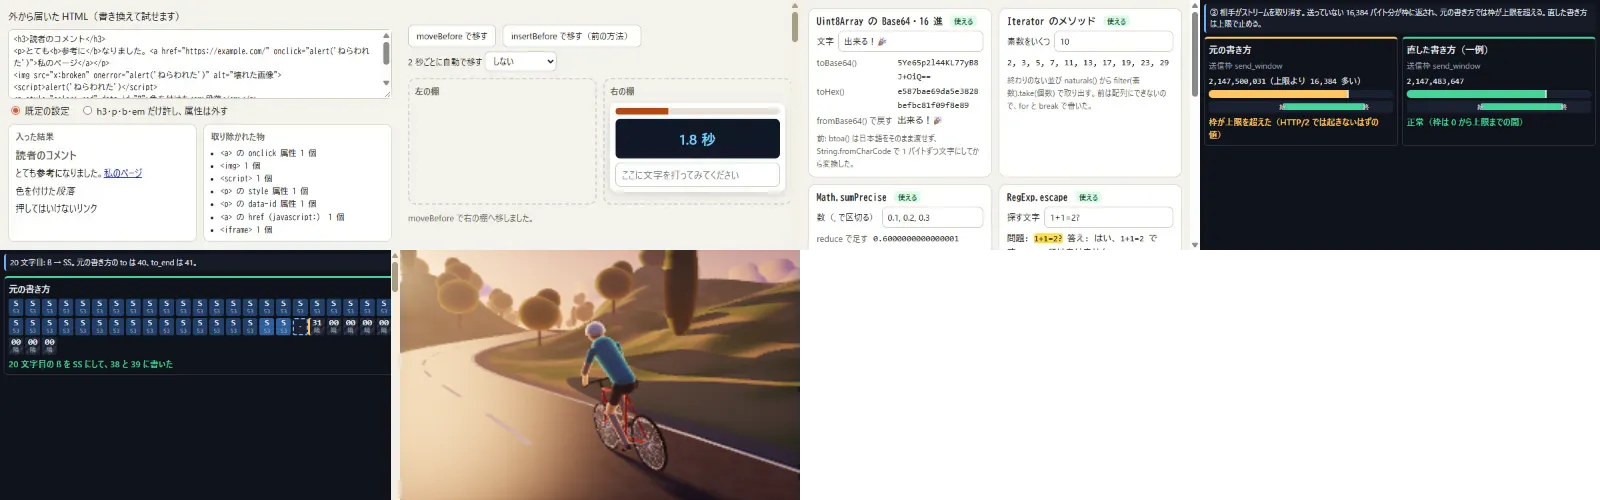
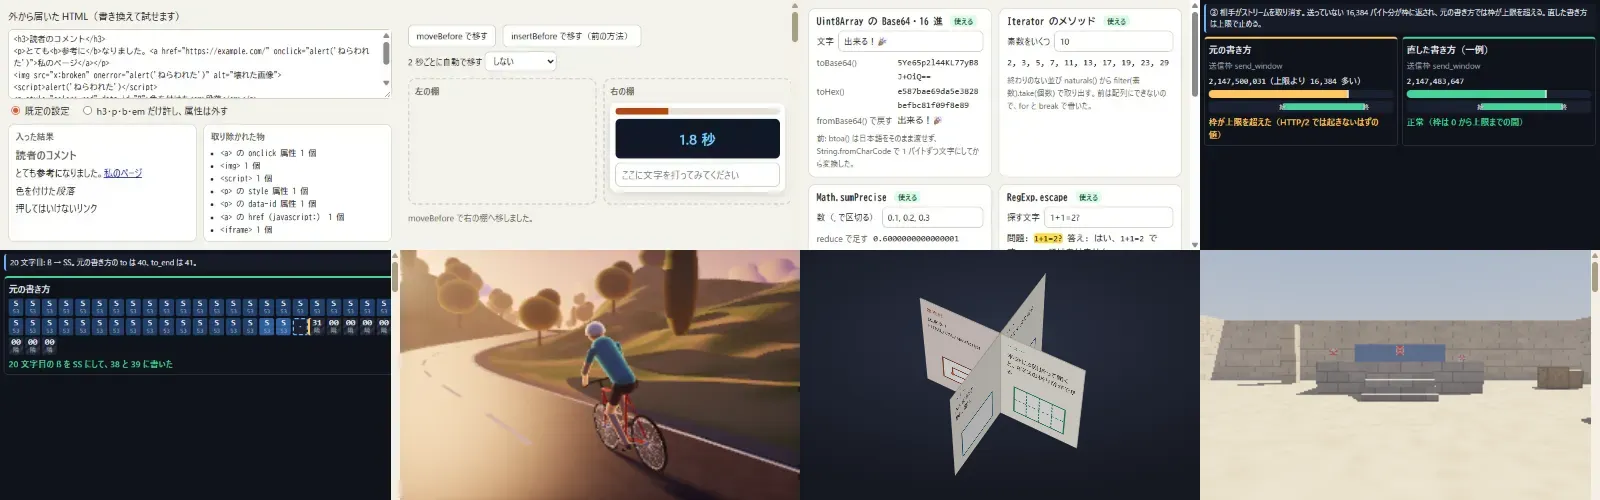
一覧の静止画: 箱だけで作る FPS の骨組みと、今日の話題 1 件（2026-11-20）を撮る

Changed region(s): [[0.5, 0.48, 1.0, 1.0]]

diff --git a/js/thumbs.js b/js/thumbs.js
@@ -1,5 +1,6 @@
 // 一覧のカードの静止画の目録。node tools/thumbs.mjs が作る。手で直さない
-window.DEKIRU_THUMBS = {"v":1,"w":400,"h":250,"cols":4,"rows":2,"sheets":["68d72c","4e08da","19ffa2","dd35ff","dd3a9c","60fbf0","63e81e","b7a4d3","686b21","92cefe","eb8186","f2066e","45a218","2a91ab","37d693","24ab4a","5a54cd","f752e7","d5e527","6c6f03","a925dd","52db0c","cf580e","4ff3cb","e52822","8d4c85","86cb75","aea336","88ed5d","d743dc","151077","a2a63d","026310","3bb873","eda318","f2d7f7","5b432b","315430","5da556","f6d5b0","4c1b0f","a1602a","17a31a","899807","4aa5ef","74e1f4","5c3a3a","18757a","ce7b78","9b8854","d15b89","b18e2c","f68cc0","50dd37","d7bec3","1b14a4","c3c5fd","fbea8e","9b356e","5efb07","b5f169","62dca2","ac9907"],"at":{
+window.DEKIRU_THUMBS = {"v":1,"w":400,"h":250,"cols":4,"rows":2,"sheets":["68d72c","4e08da","19ffa2","dd35ff","dd3a9c","60fbf0","63e81e","b7a4d3","686b21","92cefe","eb8186","f2066e","45a218","2a91ab","37d693","24ab4a","5a54cd","f752e7","d5e527","6c6f03","a925dd","52db0c","cf580e","4ff3cb","e52822","8d4c85","86cb75","aea336","88ed5d","d743dc","151077","a2a63d","026310","3bb873","eda318","f2d7f7","5b432b","315430","5da556","f6d5b0","4c1b0f","a1602a","17a31a","899807","4aa5ef","74e1f4","5c3a3a","18757a","ce7b78","9b8854","d15b89","b18e2c","f68cc0","50dd37","d7bec3","1b14a4","c3c5fd","fbea8e","9b356e","5efb07","b5f169","62dca2","56ed6c"],"at":{
+"tr-20261120-one-sheet-zine":[62,6,"4247fe3132"],
 "tr-20261119-partial-eval":[60,0,"d237915398"],
 "tr-20261119-h2-window-underflow":[62,3,"5437b6d605"],
 "tr-20261119-upcase-overflow":[62,4,"9067f99f81"],
@@ -314,6 +315,7 @@ window.DEKIRU_THUMBS = {"v":1,"w":400,"h":250,"cols":4,"rows":2,"sheets":["68d72
 "gm-janken":[37,3,"d724807842"],
 "gm-lights-out":[37,4,"ddd6cd2a92"],
 "gm-bingo":[37,5,"fa91577a93"],
+"game-fps-skeleton":[62,7,"a2c41a2ba3"],
 "gm-air-hockey":[37,6,"e1ef1a53a5"],
 "gm-hanoi":[37,7,"b8b19e71bd"],
 "gm-shiritori":[38,0,"e2180f2402"],
